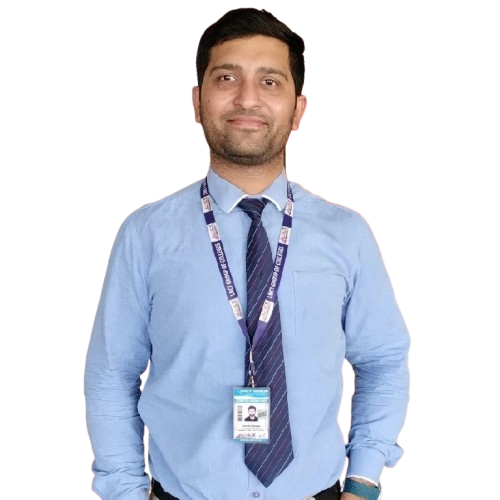
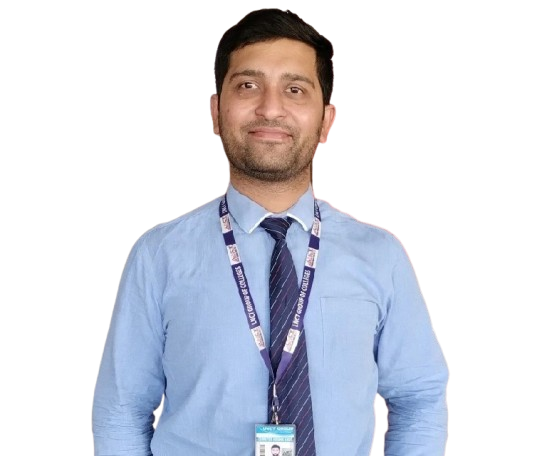
changes

Changed region(s): [[0.15, 0.0307, 0.84, 1.0], [0.45, 0.0, 0.54, 0.0307]]

diff --git a/src/components/Home.css b/src/components/Home.css
@@ -131,8 +131,8 @@ br
 
 /* Cool hover effects on the about image */
 .about-content img {
-  width: 400px;
-  height: 250px;
+  width: 300px;
+  height: 200px;
   border-radius: 15%;
   box-shadow: 0 0 20px rgba(0, 212, 255, 0.8);
   transition: transform 0.6s ease, box-shadow 0.4s ease;
@@ -366,6 +366,7 @@ br
   flex-direction: column;
   align-items: center;
   margin-bottom: 50px;
+
 }
 
 /* President and Vice President side by side */
@@ -608,4 +609,92 @@ footer {
   100% {
     filter: drop-shadow(0 0 20px #00d4ff); /* Back to neon blue */
   }
+}
+
+
+/* Contact Section */
+.contact-section {
+  padding: 50px 20px;
+  background: linear-gradient(135deg, #0e0e0e, #1c1c1c);
+  display: flex;
+  justify-content: center;
+  align-items: center;
+  height: 100vh;
+  color: #ffffff;
+}
+
+.contact-container {
+  background-color: rgba(255, 255, 255, 0.05);
+  padding: 40px;
+  border-radius: 20px;
+  box-shadow: 0 0 20px rgba(0, 212, 255, 0.8);
+  width: 100%;
+  max-width: 600px;
+  text-align: center;
+  position: relative;
+  z-index: 0;
+}
+
+.contact-heading {
+  font-size: 2.5rem;
+  margin-bottom: 30px;
+  color: #00d4ff;
+  text-shadow: 0 0 10px #00d4ff;
+}
+
+.contact-form {
+  display: flex;
+  flex-direction: column;
+  gap: 20px;
+}
+
+.form-group {
+  position: relative;
+}
+
+.form-input {
+  width: 100%;
+  padding: 15px;
+  background-color: transparent;
+  border: none;
+  border-radius: 10px;
+  border: 2px solid rgba(255, 255, 255, 0.3);
+  color: #ffffff;
+  font-size: 1rem;
+  outline: none;
+  transition: all 0.3s ease;
+  box-shadow: 0 0 20px rgba(255, 255, 255, 0.1);
+}
+
+.form-input::placeholder {
+  color: rgba(255, 255, 255, 0.6);
+}
+
+.form-input:focus {
+  border-color: #00d4ff;
+  box-shadow: 0 0 15px #00d4ff, 0 0 30px #00d4ff;
+}
+
+/* Glowing submit button */
+.submit-button {
+  background-color: #00d4ff;
+  color: #ffffff;
+  padding: 15px;
+  border: none;
+  border-radius: 10px;
+  font-size: 1.2rem;
+  cursor: pointer;
+  transition: all 0.3s ease;
+  box-shadow: 0 0 20px #00d4ff, 0 0 30px rgba(0, 212, 255, 0.5);
+  width: 100%;
+}
+
+.submit-button:hover {
+  background-color: #00a3cc;
+  box-shadow: 0 0 30px #00d4ff, 0 0 50px rgba(0, 212, 255, 0.7);
+}
+
+.submit-button:active {
+  background-color: #007a99;
+  box-shadow: 0 0 20px #00d4ff, 0 0 40px rgba(0, 212, 255, 0.7);
 }

diff --git a/src/components/Home.js b/src/components/Home.js
@@ -61,12 +61,12 @@ const Home = () => {
         <div className="event-cards">
           <div className="event-card">
             <h3>Hackathon 2024</h3><br></br>
-            <p>Join us for our annual hackathon! Code, collaborate, and compete for exciting prizes.</p> <br></br>
+            <p>Join us for our annual hackathon! Code, collaborate, and compete for exciting prizes.</p> <br></br> <br></br>
             <a href="#register" className="cta-button">Register Now</a>
           </div>
           <div className="event-card">
-            <h3>Weekly Coding Challenge</h3> <br></br>
-            <p>Test your coding skills and improve by competing in our weekly challenges.</p> <br></br>
+            <h3>Coding Challenge</h3> <br></br>
+            <p>Test your coding skills and improve by competing in our weekly challenges.</p> <br></br> <br></br>
             <a href="#register" className="cta-button">Participate</a>
           </div>
         </div>

diff --git a/src/App.js b/src/App.js
@@ -4,8 +4,8 @@ import Navbar from './components/Navbar';
 import Particles from './components/Particles';
 import 'font-awesome/css/font-awesome.min.css';
 import Home from './components/Home';
-import Contact from './components/Contact';
-import Gallery from './components/Gallery';
+//import Contact from './components/Contact';
+//import Gallery from './components/Gallery';
 
 
 function App() {
@@ -18,9 +18,7 @@ function App() {
       <Navbar />
       <Particles id="tsparticles" />
       <Home/>
-      <Contact/>
-      <Gallery/>
-      
+            
     </div>
     
   );
